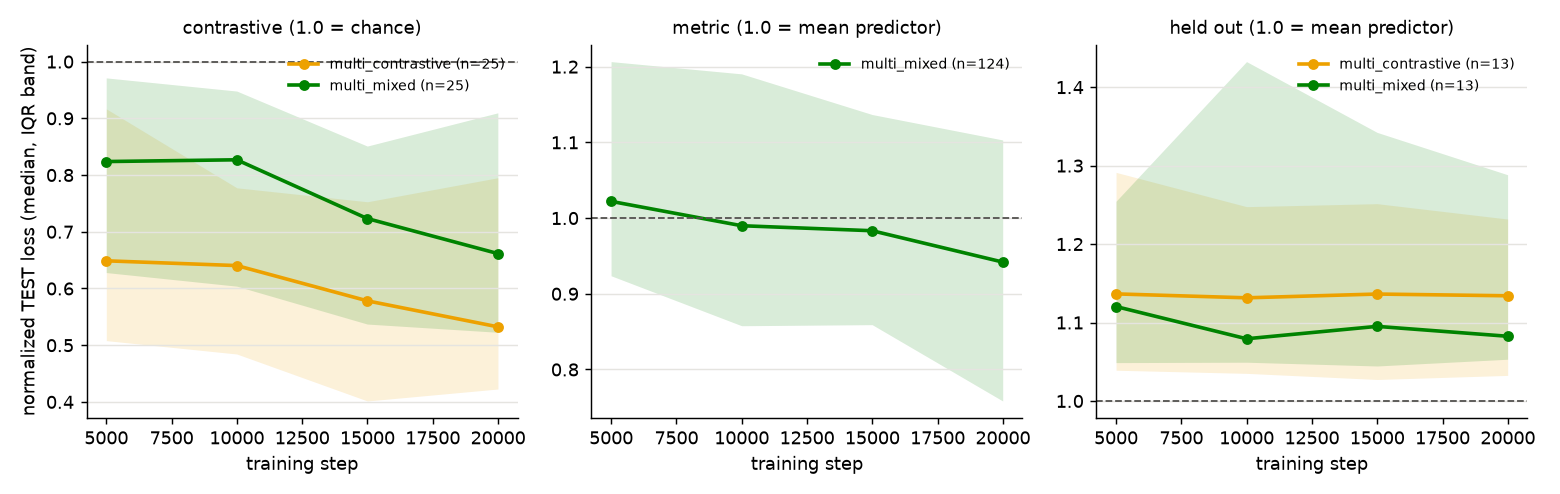
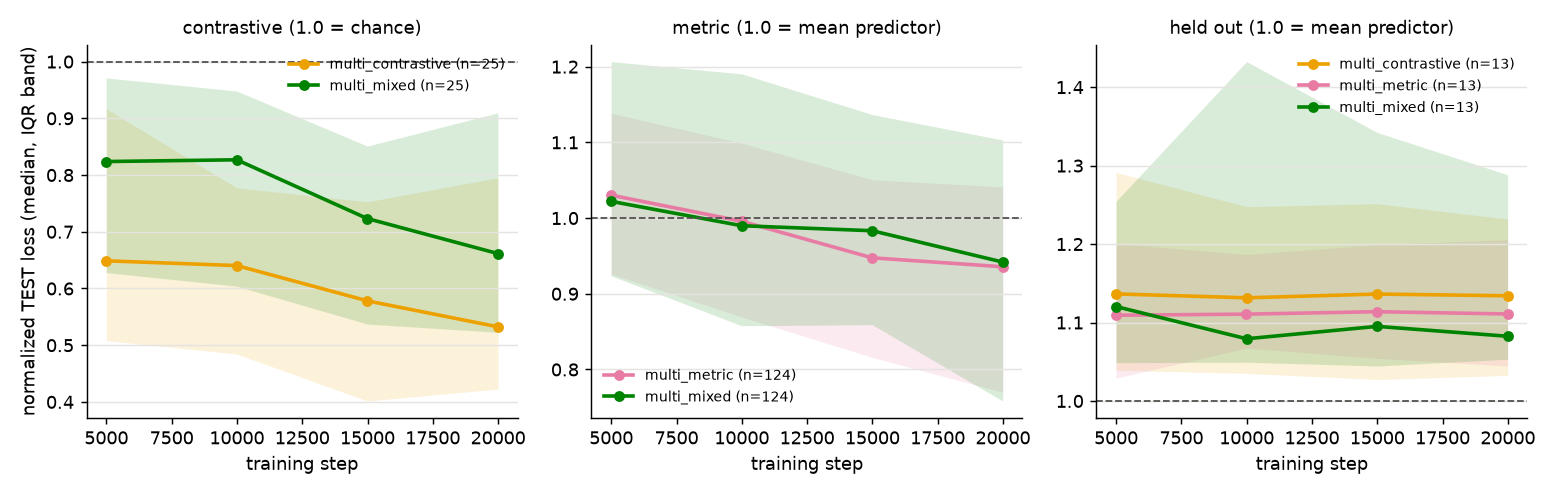
model_by_diet_r2: multi_metric done; bench note with utilization; TEST tables updated
Claude-Session: https://claude.ai/code/session_01TNqovxUpgttDui3aS9iYQf

diff --git a/experiments/2026-10-11_model_by_diet_r2/bench_notes/2026-10-12_2335_multi_metric_done.md b/experiments/2026-10-11_model_by_diet_r2/bench_notes/2026-10-12_2335_multi_metric_done.md
@@ -1,0 +1,76 @@
+# 2026-10-12 23:35 · run multi_metric done
+
+**Run:** multi_metric (batch 2, run 2 of 4) · **Config:** `configs/multi_metric.yaml` (now the recorded `run_config.yaml`) · **Exit:** 0 · **Duration:** 511 min, 14:58:32 to 23:29:32 (estimate 520)
+
+## Key numbers
+
+Normalized TEST loss, median over dojos, with the interquartile range
+([`results/test_loss_by_round.csv`](../results/test_loss_by_round.csv)):
+
+| kind | n dojos | round 0 | round 3 | IQR, round 3 | below 1.0, round 3 | max, round 3 |
+|---|---|---|---|---|---|---|
+| trained metric (1.0 = mean predictor) | 124 | 1.030 | 0.936 | 0.770-1.041 | 77 | 2.43 |
+| held out (1.0 = mean predictor) | 13 | 1.109 | 1.111 | 1.045-1.206 | 0 | 1.87 |
+
+- There are no contrastive dojos in this cell: 124 metric plus the 13
+  held out.
+- No trained metric dojo went above 5× in any round (max 2.43).
+- `checkpoints.csv` marks round 3 (step 19,988) as the best checkpoint,
+  so `train_round0003/` and `latest/` hold the same final weights.
+- 2,895,616 trainable parameters (config check).
+- The probe was not run; it comes after all the cells.
+
+## Where the data is
+
+- Raw data: `data/runs/2026-10-11_model_by_diet_r2/multi_metric/` (2.8 GB)
+- Console capture: `data/runs/2026-10-11_model_by_diet_r2/logs/multi_metric.log`
+- Project log: `data/runs/2026-10-11_model_by_diet_r2/multi_metric/run.log`
+- Provenance: `data/runs/2026-10-11_model_by_diet_r2/provenance/multi_metric/` (commit 80877a5, clean tree; the code matches 467d0e1, see the [incident note](2026-10-12_1500_incident_launcher_rerun.md))
+- Samples: `logs/multi_metric.resources.csv` (60 s), `logs/multi_metric.utilization.csv` (30 s)
+
+## First observations
+
+- The trained-metric median dropped below 1.0 from round 1 on and fell in
+  every round. The IQR narrowed from the top (q75 1.139 to 1.041), and
+  the worst dojo stayed between 2.1 and 2.4.
+- The held-out dojos were flat at 1.11 in all four rounds, with 0 of 13
+  below 1.0 by round 2. Their worst case stays under 1.9.
+- Stable: 12 fp16 overflow steps were skipped, with no NaNs and no errors.
+  The only warnings were the three usual startup ones (HF Hub, ModernBERT
+  load report, SDPA kernel).
+
+## Resources and utilization
+
+The first run sampled from start to finish.
+
+- **Memory:** peak Python RAM 3.9 GB, lowest free system RAM 16.0 GB.
+  Peak Python VRAM 3.6 GB, with 4.7 GB in use on the 16 GB card
+  (494 samples).
+- **GPU:** in training (after startup, 903 samples), the compute engine
+  was busy a median of **76%** of the time (p10 57%, p90 89%, max 95%).
+  The 3D and copy engines were idle (0% and 0.3%).
+- **CPU:** Python used a median of **280%** of one core (p10 263%, p90
+  292%), about 2.8 of 16 threads, and very steady.
+- **Reading this:**
+  - VRAM is less than a quarter used.
+  - The GPU's compute engine has some idle time, about a quarter in the
+    median.
+  - The CPU side is flat at about 2.8 threads, which fits a mostly
+    single-threaded Python loop (batch building, dojo dispatch) that
+    the GPU waits on part of the time.
+  - Windows' "utilization" counts the time the engine has any work. It
+    doesn't measure how full each kernel is, so 76% busy can still mean
+    small, under-filled kernels.
+  - Both readings point the same way: larger batches (`max_batch_cost`),
+    or moving batch building off the main thread, could raise
+    throughput. This experiment can't test that, since all cells hold
+    `max_batch_cost` 256. It is a candidate for a short throughput pilot.
+
+## Timing
+
+- Startup: 26 min (14:58:32 to 15:24:19).
+- Rounds, each 5,000 steps plus TEST: 128, 120, 118, 119 min.
+- Next run: `single_contrastive`, launched 23:29:52, estimate 400 min,
+  so ETA about 06:10. After it, `single_metric`, estimate 520 min, so
+  queue ETA about 14:55 on 2026-10-13. Single-card step time is
+  unmeasured.

diff --git a/experiments/2026-10-11_model_by_diet_r2/NOTEBOOK.md b/experiments/2026-10-11_model_by_diet_r2/NOTEBOOK.md
@@ -302,6 +302,10 @@ check jobs don't overlap `multi_metric`'s resource samples. Each run's
 own startup preflight serves as the check, and a failure there is
 handled as a small issue.
 
+### 2026-10-12 · Batch 2, run 2 (lab_technician)
+
+- [multi_metric done](bench_notes/2026-10-12_2335_multi_metric_done.md): exit 0, 511 min; TEST medians after round 3: trained metric 0.936, held out 1.111 (1.0 = mean predictor). The first fully sampled run: VRAM 3.6 GB of 16, GPU compute busy 76% (median), Python CPU about 2.8 of 16 threads.
+
 ## Results
 
 ## Conclusions
